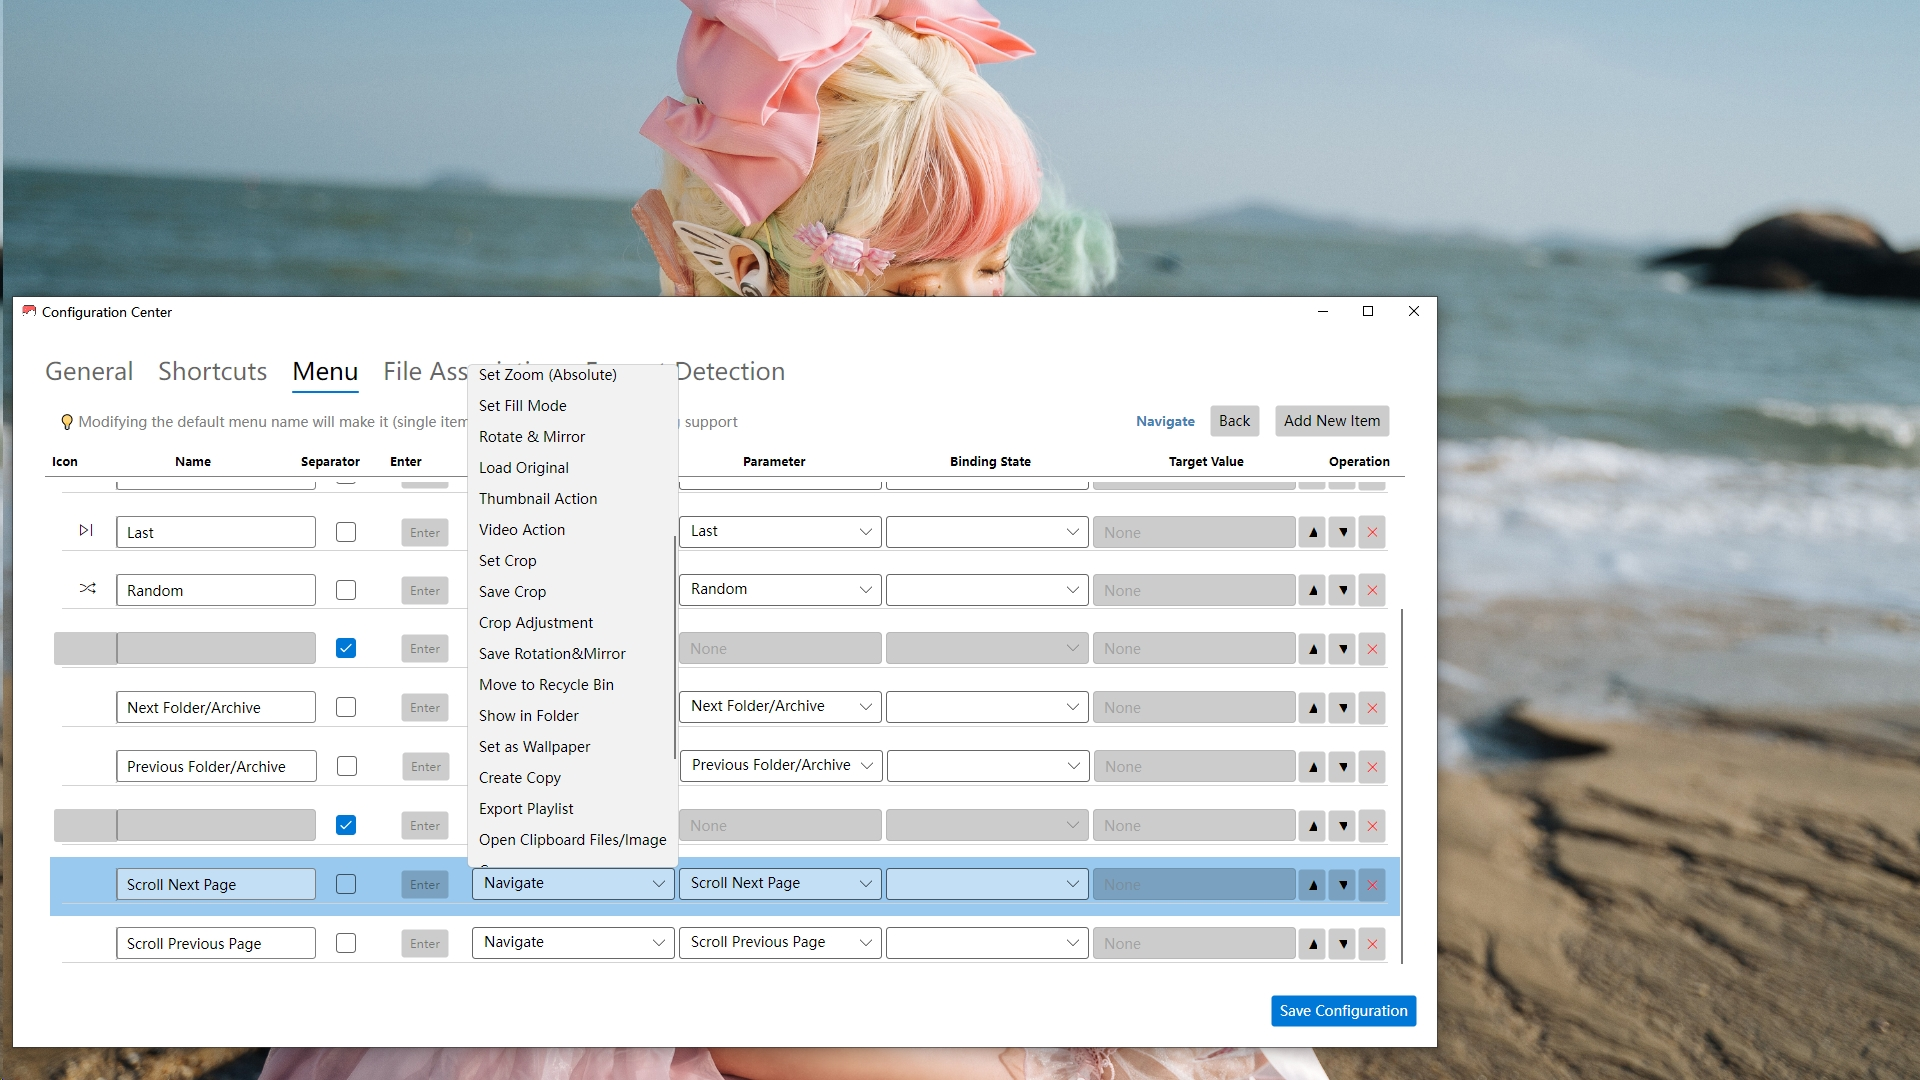
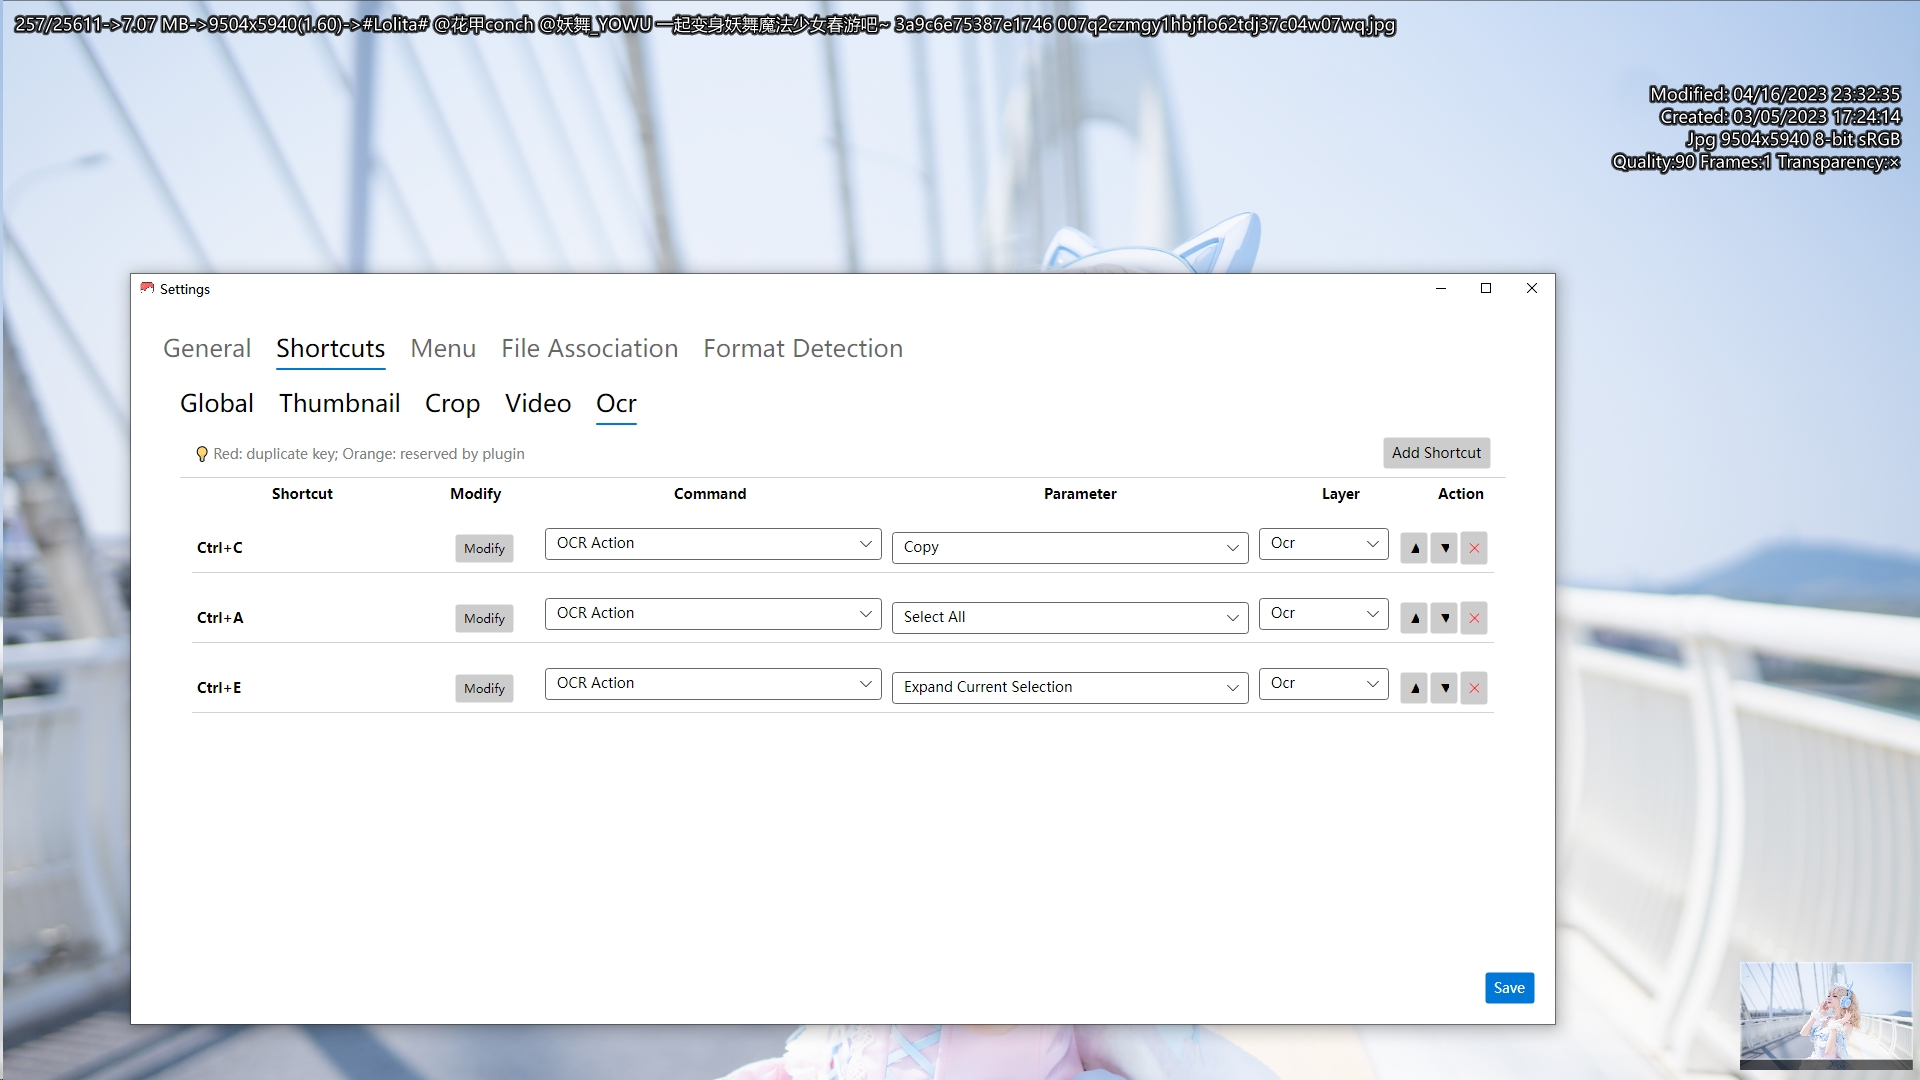
更新 OCR

diff --git a/Documentation.md b/Documentation.md
@@ -56,6 +56,12 @@
     - Navigate
       - NextFolderOrArchive
       - PrevFolderOrArchive
+- OCR
+  - Model Download
+    - Download [Microsoft Photos](https://apps.microsoft.com/detail/9wzdncrfjbh4) from the `Microsoft Store`.
+    - Open the app, launch `Task Manager`, right-click on `Photos` -> `Photos`, and select `Open file location`.
+    - Copy `oneocr.dll`, `oneocr.onemodel`, and `onnxruntime.dll` to the directory where `Vii3` is located.
+  - In `Hotkeys` - `Global`, add a new hotkey, bind it to the command `Toggle` with the parameter `Ocr`.
 - Command Line Arguments
   - Arguments starting with `--` are commands to be executed
     - Format: `--commandname[=optionalparameter]`
@@ -87,6 +93,7 @@
     - Requires exiting the program before editing `data\set.json`.
     - Options not included in the settings interface imply that regular users are not encouraged to customize them.
     - For `"LibMpvPath"`, please refer to the section above.
+    - `OneOcrDirectory` Set the OCR model folder location, reuse the model, and note that some directories may not have permission to read like `WindowsApps`
     - `Background`
       - Used to set the background color in software render mode using the `#AARRGGBB` or `#RRGGBB` format.
       - Invalid values or missing configurations will fallback to `#202020`.
@@ -404,6 +411,9 @@
 * ##### Video
   - Description: Video
   - ID: 3
+* ##### Ocr
+  - Description: Ocr
+  - ID: 4
 </details>
 
 <details style="margin-left: 20px;" id="CropAdjustment" open>
@@ -613,6 +623,9 @@
 * ##### Crop
   - Description: Crop
   - ID: 32
+* ##### Ocr
+  - Description: Ocr
+  - ID: 33
 * ##### WindowFitsImage
   - Description: Window fit to image
   - ID: 35
@@ -692,4 +705,31 @@
   - Description: Mirror vertical
   - ID: 5
 </details>
+
+<details style="margin-left: 20px;" id="RotateMirrorType" open>
+<summary><b>OcrAction</b></summary>
+
+* ##### SelectAll 
+  - Description: Select all
+  - ID: 1
+* ##### ExpandCurrentSelection 
+  - Description: Expand selection (select all `Box` elements currently partially selected)
+  - ID: 2
+* ##### Copy
+  - Description: Copy
+    - Includes basic text layout restructuring
+    - Attempts to restore layout based on reading order, though perfect reproduction is not guaranteed
+    - The string itself does not contain layout information, so it will not and cannot insert multiple spaces to force alignment
+    - Multiple `Boxes` merged into the same line are separated by a `Tab`
+    - Remaining whitespace refers to gaps in the source data or fallback cases where only part of a single `Box` is selected
+    - It can handle partial rotation to merge `Boxes` that are not on the same horizontal line into the same row
+  - ID: 10
+* ##### CopyUnordered
+  - Description: Copy unordered (per line, from top to bottom based on coordinates)
+  - ID: 11
+* ##### CopyJson
+  - Description: Copy JSON (raw data)
+  - ID: 12
+</details>
+
 </details>

diff --git a/zh_Documentation.md b/zh_Documentation.md
@@ -56,6 +56,12 @@
     - Navigate
       - NextFolderOrArchive
       - PrevFolderOrArchive
+- Ocr
+  - 模型下载
+    - 从 `Microsoft Store` 下载 [Microsoft 照片](https://apps.microsoft.com/detail/9wzdncrfjbh4)
+    - 打开应用,打开任务管理器,右键 `照片`-`照片`, 打开文件所在位置
+    - 复制 `oneocr.dll` `oneocr.onemodel` `onnxruntime.dll` 到 `Vii3` 所在目录
+  - 在 `快捷键` - `全局` 添加新快捷键,绑定至命令 `切换` 参数 `Ocr`
 - 命令行参数
   - 以 `--` 开始的是待执行命令
     - 格式 `--命令名[=可选参数]`
@@ -86,7 +92,8 @@
   - 通用设置手动编辑选项
     - 需退出程序后编辑 `data\set.json`
     - 未在设置界面添加代表不希望普通用户去自定义
-    - `"LibMpvPath"` 参考上文
+    - `LibMpvPath` 参考上文
+    - `OneOcrDirectory` 设置OCR模型文件夹位置,复用模型,注意部分目录无权限读取如`WindowsApps`
     - `Background`
       - 用于设置软解渲染下背景颜色 `#AARRGGBB` 或 `#RRGGBB`
       - 无效值或未设置回退至 `#202020`
@@ -404,6 +411,9 @@
 * ##### Video
   - 说明: 视频
   - ID: 3
+* ##### Ocr
+  - 说明: Ocr
+  - ID: 4
 </details>
 
 <details style="margin-left: 20px;" id="CropAdjustment" open>
@@ -613,6 +623,9 @@
 * ##### Crop
   - 说明: 裁剪
   - ID: 32
+* ##### Ocr
+  - 说明: Ocr
+  - ID: 33
 * ##### WindowFitsImage
   - 说明: 窗口适应图片
   - ID: 35
@@ -693,4 +706,31 @@
   - 说明: 垂直镜像
   - ID: 5
 </details>
+
+<details style="margin-left: 20px;" id="RotateMirrorType" open>
+<summary><b>OcrAction</b></summary>
+
+* ##### SelectAll 
+  - 说明: 全选
+  - ID: 1
+* ##### ExpandCurrentSelection 
+  - 说明: 扩展选择(全选当前已有部分选中的`Box`)
+  - ID: 2
+* ##### Copy
+  - 说明: 复制
+    - 包含基础排版重组功能
+    - 遵循阅读顺序尽可能还原布局,但不保证完美复刻
+    - 字符串本身不包含布局,所以不会也不可能补充多个空格强制对齐
+    - 多 `Box` 合并至同一行以制表符 `Tab` 分隔
+    - 其余空白属于源数据中空白或单个 `Box` 未全选时兜底情况
+    - 它可抗部分倾斜以合并不处于同一水平线上的 `Box` 为同一行
+  - ID: 10
+* ##### CopyUnordered
+  - 说明: 无序复制 (按坐标位置从上到下每个一行)
+  - ID: 11
+* ##### CopyJson
+  - 说明: 复制Json (源数据)
+  - ID: 12
+</details>
+
 </details>

diff --git a/README.md b/README.md
@@ -2,8 +2,6 @@
 
 # Vii3
 > A high-performance frameless image viewer based on Avalonia, delivering ultra-smooth switching experience, comprehensive format support.
-A hobby project developed in isolation
-Created to solve the blocking issue when switching between large images
 ---
 ## Features
 - Avalonia AOT compilation for extreme startup speed
@@ -16,6 +14,8 @@ Created to solve the blocking issue when switching between large images
    - Most people don't need this, and `libmpv` is quite large, download it yourself if needed
 - Zip, Rar, Cbz, Cbr archive format support powered by SharpCompress
 - Advanced Lua scripting support powered by NLua
+- OCR Support (Testing)
+   - Need to download models according to the document
 - All interface elements can be removed to eliminate browsing distractions
 - Fully customizable keyboard shortcuts and contextmenu
 - Multi-language support can be created and updated by users
@@ -32,6 +32,8 @@ Created to solve the blocking issue when switching between large images
 ![main](images/main_2.jpeg)
 
 ![thumbnail](images/thumbnail.jpeg)
+
+![ocr](images/ocr.jpeg)
 
 ![contextmenu](images/contextmenu.jpeg)
 

diff --git a/zh_README.md b/zh_README.md
@@ -1,7 +1,5 @@
 # Vii3
 > 基于 Avalonia 的高性能图片无边框浏览器，极致流畅的切换体验，全面的格式支持。
-古法编程闭门造车之作
-为了解决大图切换时的阻塞而产生
 ---
 ## 特性
 - Avalonia AOT 编译带来极致的启动速度
@@ -14,6 +12,8 @@
    - 大部分人无此需求,且 `libmpv` 比较大 ,需要的自行下载
 - 由 SharpCompress 驱动带来 Zip，Rar, Cbz, Cbr 压缩包格式支持
 - 由 NLua 驱动带来 高级需求 lua 支持
+- OCR 支持 (测试中)
+   - 需根据文档下载相关模型
 - 界面元素可全部移除以去除对浏览的干扰
 - 快捷键，右键菜单可完全自定义
 - 多语言可由用户完成生成,更新
@@ -28,6 +28,8 @@
 ![main](images/main_zh.jpeg)
 
 ![thumbnail](images/thumbnail.jpeg)
+
+![ocr](images/ocr_zh.jpeg)
 
 ![contextmenu](images/contextmenu_zh.jpeg)
 
